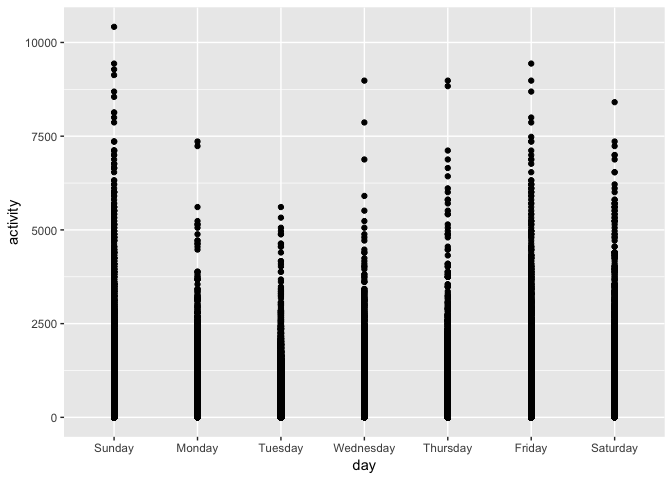
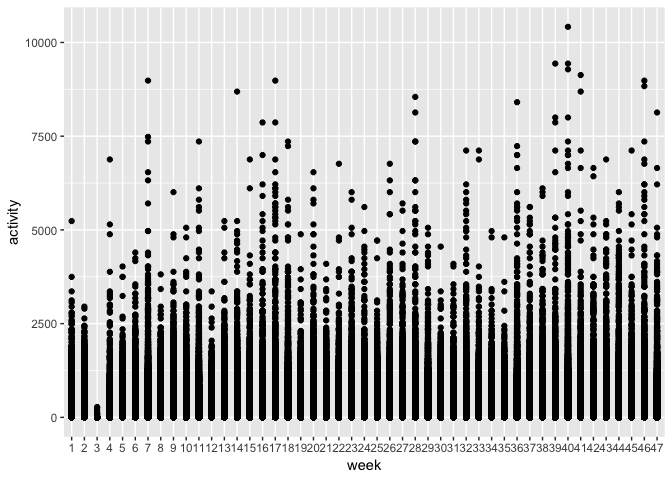
display activity/time relationship

diff --git a/p8105_mtp_zf2211.md b/p8105_mtp_zf2211.md
@@ -47,6 +47,7 @@ ncol(atvy)
 ``` r
 # Define normal order of weekdays
 atvy$day <- factor(atvy$day, levels = c("Sunday", "Monday", "Tuesday", "Wednesday", "Thursday", "Friday", "Saturday"))
+atvy$week <- as.factor(atvy$week)
 #tidy the table
 atvy_tidy <- 
   atvy %>%
@@ -66,21 +67,32 @@ ncol(atvy_tidy)
 From the Data, one minute epoch are common, which means only when the activity in cells == 1 it is normal. When the activity counts are too high, the man would have been physical execrising. The dataset after tidy have 4 variables: `week` `day` `minute` `activity` and 473760 observations.
 
 ``` r
-ggplot(atvy_tidy, aes(x = day, y = activity)) +
+ggplot(atvy_tidy, aes(x = week, y = activity)) +
   geom_point()
 ```
 
 ![](p8105_mtp_zf2211_files/figure-markdown_github/unnamed-chunk-4-1.png) From the scatterplot, on
 
 ``` r
-ggplot(atvy_tidy, aes(x = week, y = activity)) + 
-  geom_density_2d()
+ggplot(atvy_tidy, aes(x = activity, y = week)) + 
+  geom_density_ridges()
 ```
+
+    ## Picking joint bandwidth of 36.8
 
 ![](p8105_mtp_zf2211_files/figure-markdown_github/unnamed-chunk-5-1.png)
 
 ``` r
-ggplot(atvy_tidy, aes(x = activity, y = day, fill = day, height = ..density..)) +
+ggplot(atvy_tidy, aes(x = activity, y = week)) + 
+  geom_density_ridges_gradient()
+```
+
+    ## Picking joint bandwidth of 36.8
+
+![](p8105_mtp_zf2211_files/figure-markdown_github/unnamed-chunk-6-1.png)
+
+``` r
+ggplot(atvy_tidy, aes(x = activity, y = week, fill = week, height = ..density..)) +
   geom_density_ridges(scale = 4, stat = "density") +
   scale_y_discrete(expand = c(0.01, 0)) +
   scale_x_continuous(expand = c(0.01, 0)) +
@@ -89,7 +101,10 @@ ggplot(atvy_tidy, aes(x = activity, y = day, fill = day, height = ..density..)) 
   theme(legend.position = "none")
 ```
 
-![](p8105_mtp_zf2211_files/figure-markdown_github/unnamed-chunk-6-1.png)
+    ## Warning in RColorBrewer::brewer.pal(n, pal): n too large, allowed maximum for palette GnBu is 9
+    ## Returning the palette you asked for with that many colors
+
+![](p8105_mtp_zf2211_files/figure-markdown_github/unnamed-chunk-7-1.png)
 
 ``` r
 #count daily average activity countshhh
@@ -109,6 +124,6 @@ wordcountaddin::text_stats("p8105_mtp_zf2211.Rmd")
 | Method          | koRpus      | stringi       |
 |:----------------|:------------|:--------------|
 | Word count      | 52          | 49            |
-| Character count | 316         | 315           |
+| Character count | 317         | 316           |
 | Sentence count  | 4           | Not available |
 | Reading time    | 0.3 minutes | 0.2 minutes   |
